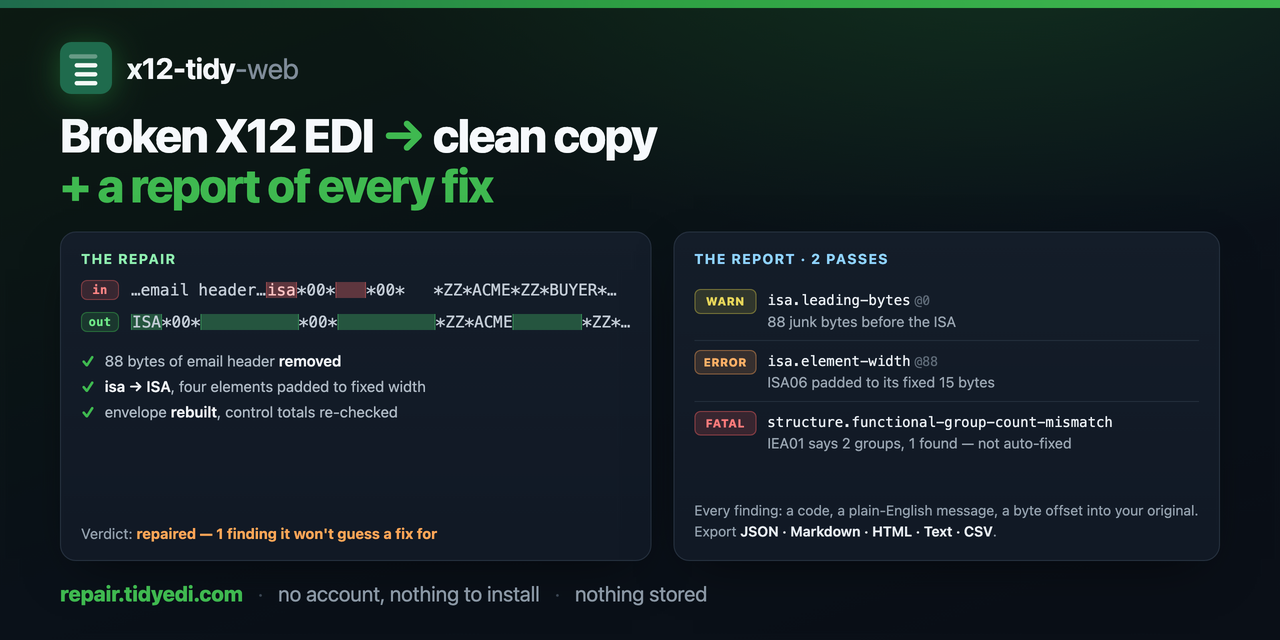
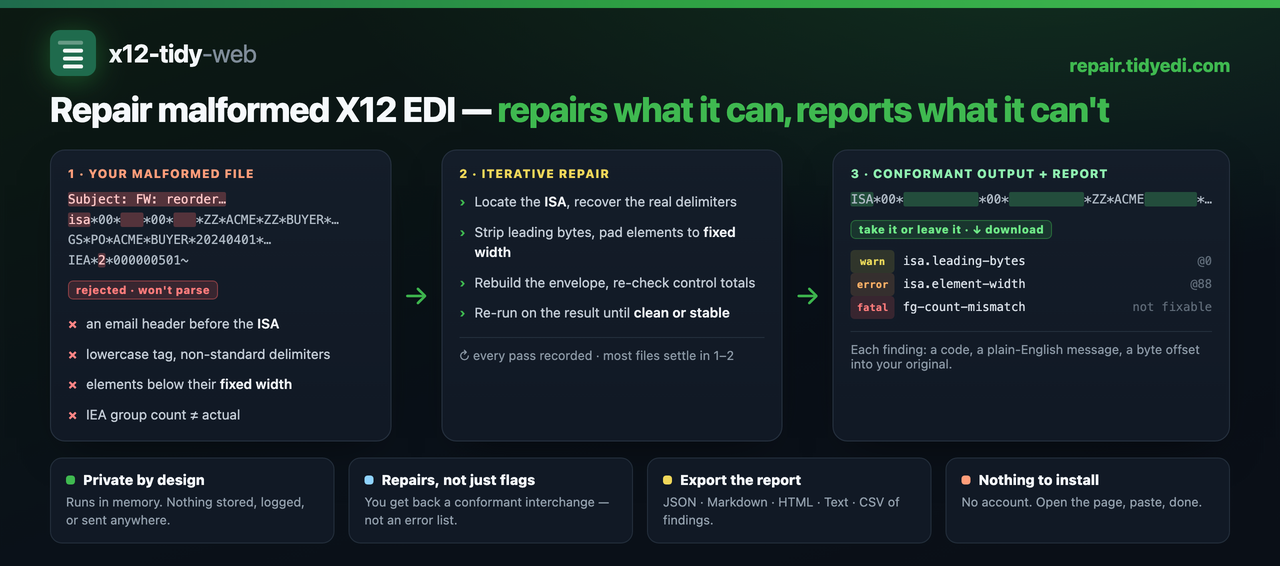
Swap the preview graphic for the flow infographic
Replaces the two-panel graphic with the 3-step infographic (malformed file →
iterative repair → conformant output + report) plus the four benefit tiles —
real text, same dark style. Kept the docs/social-preview.png filename so the
README hero, landing-page hero, and og:image references are unchanged.

- docs/social-preview.png — the infographic, 1280×566
- docs/index.html — hero height 566, alt text describes the three steps
- README.md — alt text likewise
- docs/image.png — removed (a stray AI-generated draft with garbled text)

Claude-Session: https://claude.ai/code/session_01GiGhF5EcJgA2nBUpiUQv6P

diff --git a/docs/index.html b/docs/index.html
@@ -69,10 +69,13 @@
     <a href="https://github.com/tidyedi/x12-tidy">x12-tidy</a>.
   </p>
 
-  <img class="hero" src="social-preview.png" width="1280" height="640"
-       alt="Broken X12 EDI becomes a clean copy plus a per-pass report: leading email
-            junk removed, the ISA tag cased and its elements padded to fixed width, the
-            envelope rebuilt — with each finding's severity, code, and byte offset.">
+  <img class="hero" src="social-preview.png" width="1280" height="566"
+       alt="Three steps: a malformed X12 file (email header before the ISA, lowercase tag,
+            short elements, wrong group count) → iterative repair (locate the ISA, recover
+            delimiters, pad to fixed width, rebuild the envelope, re-run until clean or
+            stable) → a conformant copy plus a per-pass report of every finding with its
+            code and byte offset. Private by design; exports to JSON/Markdown/HTML/text/CSV;
+            no account, nothing to install.">
 
   <div class="cards">
     <!-- LIVE-APP-CARD: the live app is on Render at x12-tidy-web.onrender.com.

diff --git a/README.md b/README.md
@@ -6,7 +6,7 @@
 [![CI](https://github.com/tidyedi/web-facing/actions/workflows/ci.yml/badge.svg)](https://github.com/tidyedi/web-facing/actions/workflows/ci.yml)
 [![License: Apache-2.0](https://img.shields.io/badge/license-Apache--2.0-blue.svg)](LICENSE)
 
-[![Repair malformed X12 EDI — paste a broken interchange, get a clean copy and a report of every fix. No account, nothing stored.](docs/social-preview.png)](https://repair.tidyedi.com)
+[![Repair malformed X12 EDI: a malformed file (email header before the ISA, lowercase tag, short elements, wrong group count) → iterative repair (locate the ISA, recover delimiters, pad to fixed width, rebuild the envelope) → a conformant copy plus a per-pass report of every finding. Private by design, no account, nothing to install.](docs/social-preview.png)](https://repair.tidyedi.com)
 
 A small web front end for [**x12-tidy**](https://github.com/tidyedi/x12-tidy).
 Paste a malformed ANSI X12 interchange into a form; get back a cleansed,
